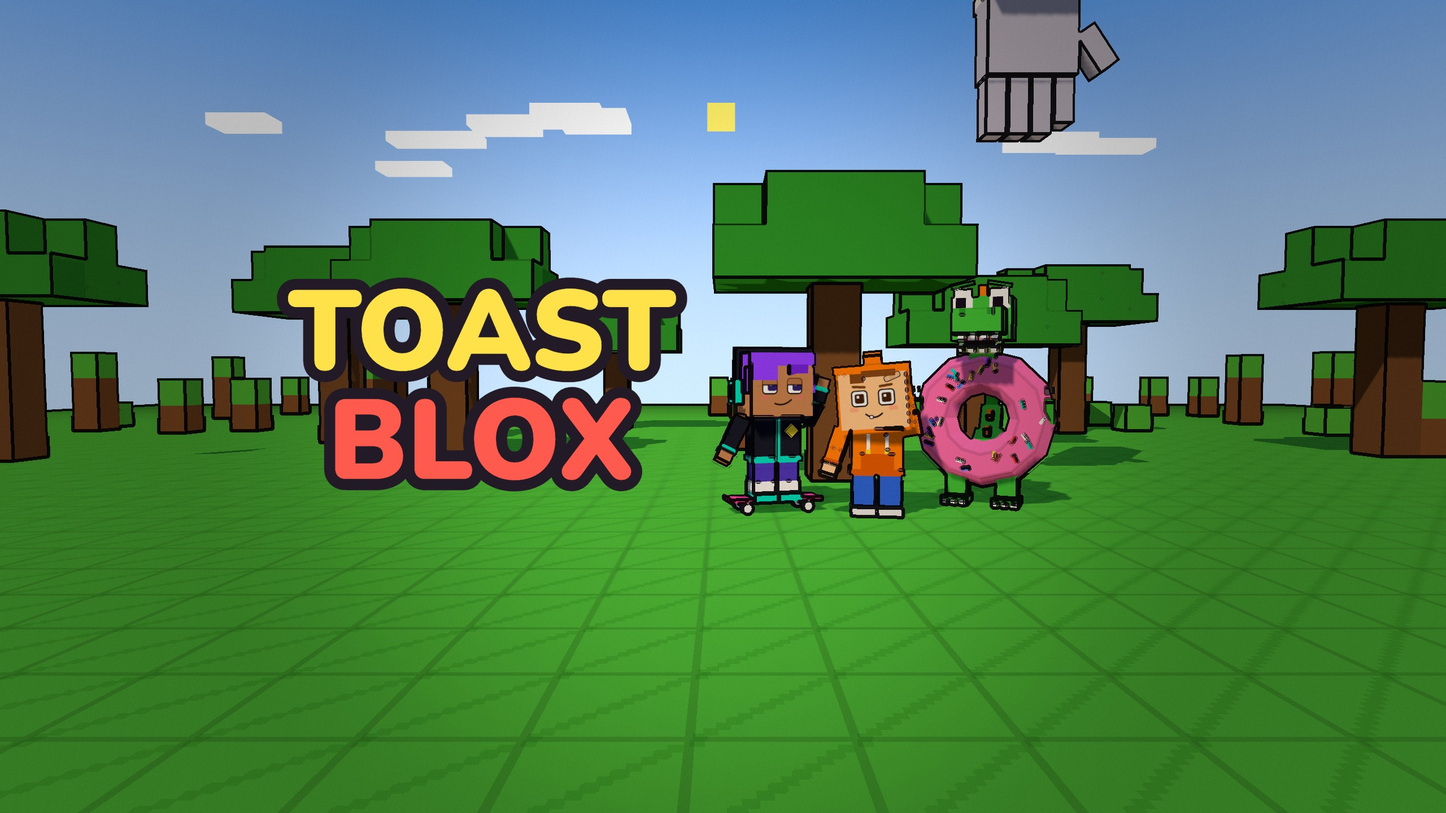
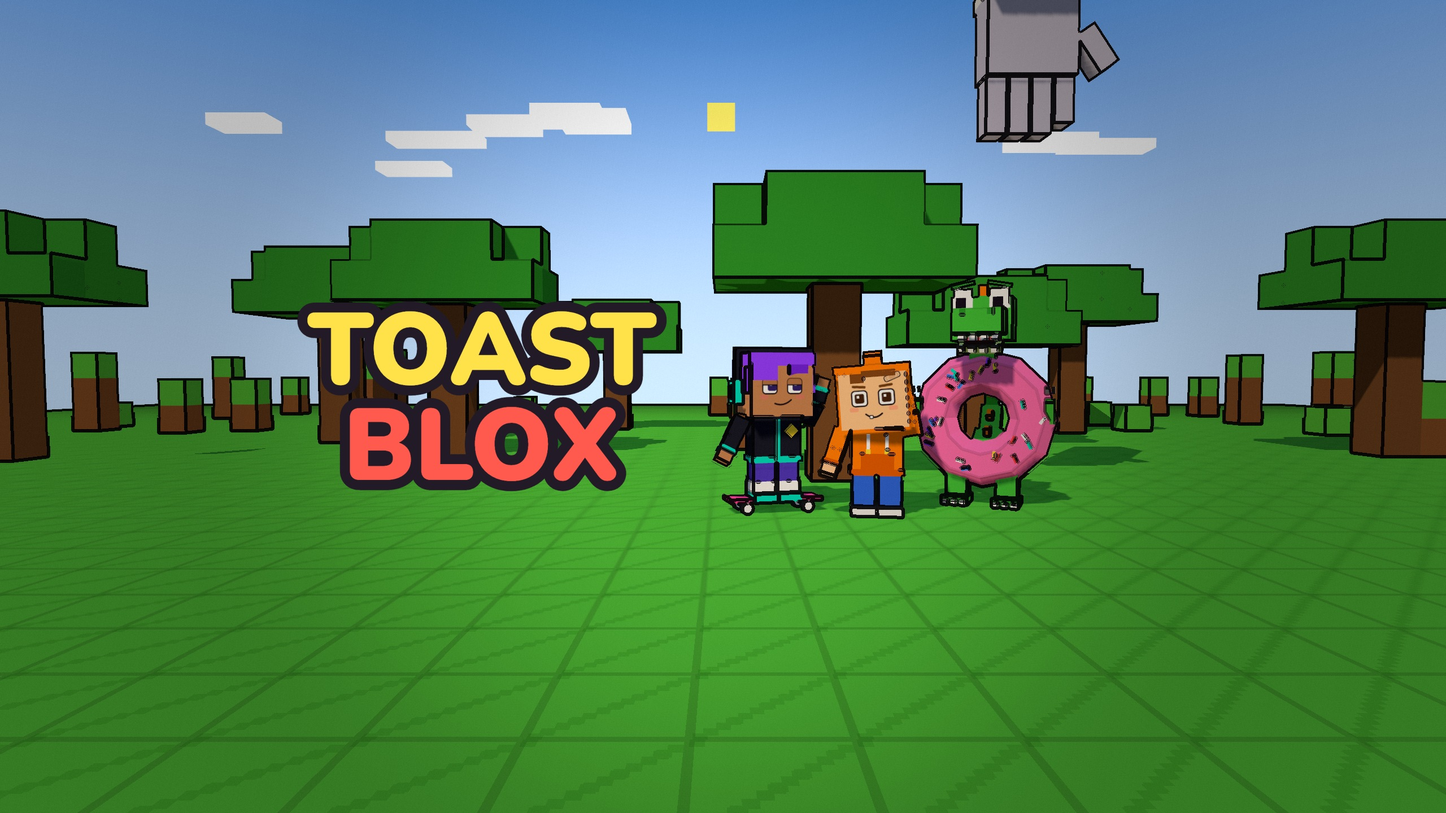
ToastBlox Shorts covers (S1, In This World 1, Night Shift 1) with 4-5 word hooks, plus the cover script

Changed region(s): [[0.1875, 0.3438, 0.5, 0.625]]

diff --git a/videos/stories/blocky-world/brand/banner_story.js b/videos/stories/blocky-world/brand/banner_story.js
@@ -21,8 +21,8 @@ export function frame(f, E) {
   unclip([T, P, D], { gap: 0.25 });
   A.pose({ pos: [205.6, 7.4, 0.6], palmUp: 0 });
   const ov = (g, w, h) => {
-    textO("TOAST", 640, 455, 150, { col: "#ffe14a" })(g, w, h);
-    textO("BLOX", 640, 600, 150, { col: "#ff5a4d" })(g, w, h);
+    textO("TOAST", 640, 478, 135, { col: "#ffe14a" })(g, w, h);
+    textO("BLOX", 640, 605, 135, { col: "#ff5a4d" })(g, w, h);
     if (SAFE) { const k = h / 1080; g.strokeStyle = "#ff00ff"; g.lineWidth = 4; g.strokeRect((w - 1546) / 2, (h - 423) / 2, 1546, 423); }
   };
   return { cam: { pos: [200.2, 2.2, 14.5], look: [200.2, 1.65, 2], fov: 56 }, light: "day", dof: { focus: 12, amount: 0 }, actors: [], fx: [], caption: false, focusPt: [202, 1.2, 2], overlay: ov };

diff --git a/videos/stories/blocky-world/brand/make_short_covers.py b/videos/stories/blocky-world/brand/make_short_covers.py
@@ -1,0 +1,32 @@
+"""Shorts covers 1080x1920: a frame from the Short, brightened, with a 4-5 word hook in the channel's outlined Nunito type."""
+import subprocess, sys, os
+from PIL import Image, ImageDraw, ImageFont, ImageEnhance
+HERE = os.path.dirname(os.path.abspath(__file__)); BW = os.path.dirname(HERE)
+FONT = os.path.expanduser("~/cizgi/toast-long2/fonts/Nunito.ttf")
+INK = (34, 26, 38)
+COVERS = [  # (video, second, [(line, colour)], text centre y, out name)
+  ("s1-dont-feed-the-mascot/S1_Dont_Feed_the_Mascot_small.mp4", 16.5, [("DON'T FEED HIM", (255, 255, 255)), ("AFTER 3 AM", (255, 77, 77))], 1560, "s1_dont_feed_the_mascot"),
+  ("itw-01-snores/ITW01_small.mp4", 33.3, [("DON'T WAKE", (255, 255, 255)), ("THE GIANT", (255, 225, 74))], 300, "itw01_dont_wake_the_giant"),
+  ("night-shift-01/Night_Shift_01_small.mp4", 13.85, [("HE HAS", (255, 255, 255)), ("NO SHADOW", (255, 77, 77))], 1560, "night_shift_01_no_shadow"),
+]
+def font(sz):
+    f = ImageFont.truetype(FONT, sz)
+    try: f.set_variation_by_axes([900])
+    except Exception: pass
+    return f
+for vid, t, lines, cy, name in COVERS:
+    tmp = os.path.join(HERE, "shorts_covers", f"_{name}_raw.png")
+    subprocess.run(["ffmpeg", "-y", "-loglevel", "error", "-ss", str(t), "-i", os.path.join(BW, vid), "-frames:v", "1", tmp], check=True)
+    im = Image.open(tmp).convert("RGB"); os.remove(tmp)
+    im = ImageEnhance.Brightness(im).enhance(1.18); im = ImageEnhance.Color(im).enhance(1.15)
+    d = ImageDraw.Draw(im); W = im.width
+    sizes = []
+    for txt, _ in lines:
+        sz = 190
+        while d.textlength(txt, font=font(sz)) > W * 0.9 and sz > 80: sz -= 4
+        sizes.append(sz)
+    sz = min(sizes); f = font(sz); lh = int(sz * 1.08); y0 = cy - lh * len(lines) // 2
+    for i, (txt, col) in enumerate(lines):
+        w = d.textlength(txt, font=f); x = (W - w) / 2; y = y0 + i * lh
+        d.text((x, y), txt, font=f, fill=col, stroke_width=max(10, sz // 9), stroke_fill=INK)
+    out = os.path.join(HERE, "shorts_covers", name + ".jpg"); im.save(out, quality=92); print(out)
